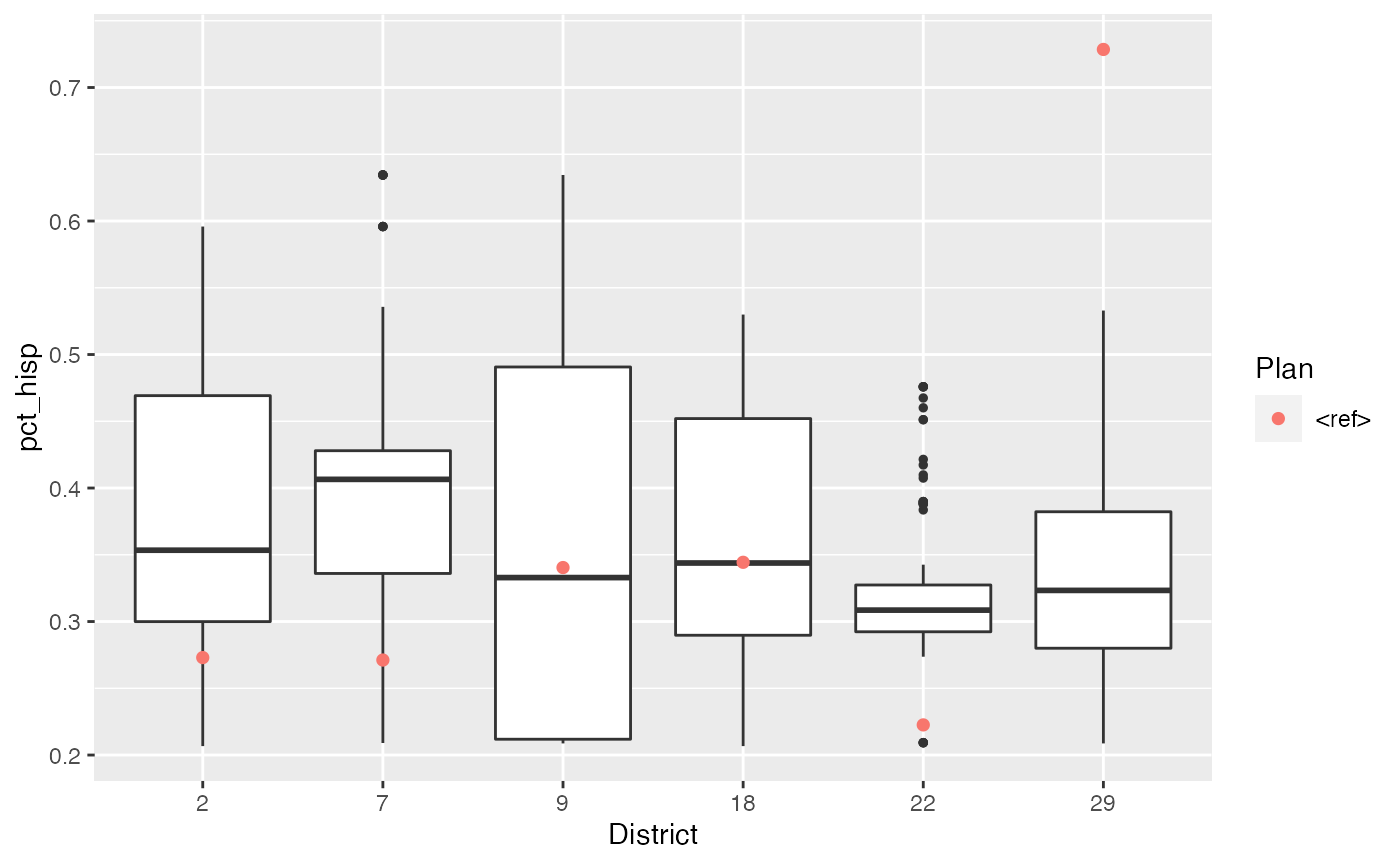
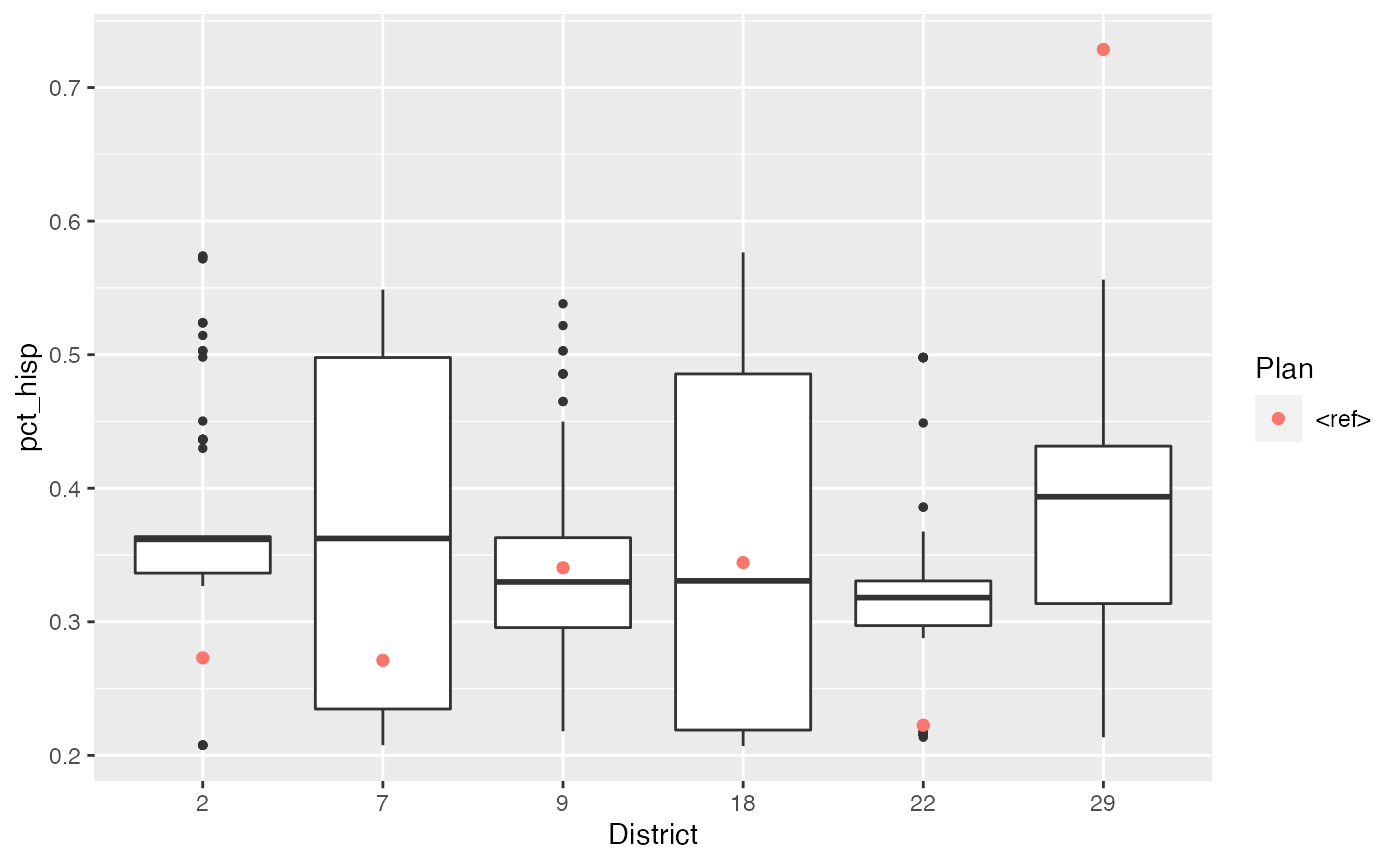
doc fixes

diff --git a/docs/articles/tidy-redist.html b/docs/articles/tidy-redist.html
@@ -134,7 +134,7 @@
 <h1 class="hasAnchor">
 <a href="#specifying-the-redistricting-problem" class="anchor"></a>Specifying the Redistricting Problem</h1>
 <p>The first thing we do is to create a <code>redist_map</code> object, which is essentially a data frame along with an adjacency graph and a little extra metadata about the redistricting problem at hand. It’s important to create this object early on, since data operations like filtering and summarizing will affect the graph structure, number of district, and population constraints.</p>
-<p>Here, the existing district assignment is stored in the <code>cd</code> column. We provide let <code>redist_map</code> know about this by providing the <code>existing_col</code> argument, and we use <code><a href="https://rdrr.io/r/base/Extremes.html">max(cd)</a></code> to count the total number of districts.</p>
+<p>Here, the existing district assignment is stored in the <code>cd</code> column. We provide let <code><a href="../reference/redist_map.html">redist_map()</a></code> know about this by providing the <code>existing_col</code> argument, and we use <code><a href="https://rdrr.io/r/base/Extremes.html">max(cd)</a></code> to count the total number of districts.</p>
 <div class="sourceCode" id="cb2"><pre class="downlit sourceCode r">
 <code class="sourceCode R"><span class="va">tx</span> <span class="op">=</span> <span class="fu"><a href="../reference/redist_map.html">redist_map</a></span><span class="op">(</span><span class="va">texas_shp</span>, pop_tol<span class="op">=</span><span class="fl">0.05</span>, existing_col<span class="op">=</span><span class="va">cd</span><span class="op">)</span>
 <span class="fu"><a href="https://rdrr.io/r/base/print.html">print</a></span><span class="op">(</span><span class="va">tx</span><span class="op">)</span>
@@ -158,7 +158,7 @@
 <span class="co">#&gt; 10 029    4802… (((-217227.7 710079.4, -…    28    54     7     8    39    45</span>
 <span class="co">#&gt; # … with 3,128 more rows, and 6 more variables: bvap &lt;dbl&gt;, hvap &lt;dbl&gt;,</span>
 <span class="co">#&gt; #   wvap &lt;dbl&gt;, dem &lt;int&gt;, gop &lt;int&gt;, graph &lt;list&gt;</span></code></pre></div>
-<p>Our original shapefile stored its geographic information in terms of latitude and longitude. While common, this can cause problems for some of the geographic operations used in the analysis process, so by default <code>redist_map</code> will reproject the shapefile geometry to a new coordinate system. Whether to do this and which coordinate system to use can be controlled using the <code>planarize</code> argument.</p>
+<p>Our original shapefile stored its geographic information in terms of latitude and longitude. While common, this can cause problems for some of the geographic operations used in the analysis process, so by default <code><a href="../reference/redist_map.html">redist_map()</a></code> will reproject the shapefile geometry to a new coordinate system. Whether to do this and which coordinate system to use can be controlled using the <code>planarize</code> argument.</p>
 <div id="subsetting" class="section level2">
 <h2 class="hasAnchor">
 <a href="#subsetting" class="anchor"></a>Subsetting</h2>
@@ -263,22 +263,22 @@
 <div id="simulating-and-analyzing-plans" class="section level1">
 <h1 class="hasAnchor">
 <a href="#simulating-and-analyzing-plans" class="anchor"></a>Simulating and Analyzing Plans</h1>
-<p>After preprocessing the map to focus on the redistricting problem of interest, we are ready to run the redistricting simulation. The recommended simulation function is <code>redist_smc</code>, which uses a Sequential Monte Carlo (SMC) algorithm.<a href="#fn1" class="footnote-ref" id="fnref1"><sup>1</sup></a></p>
+<p>After preprocessing the map to focus on the redistricting problem of interest, we are ready to run the redistricting simulation. The recommended simulation function is <code><a href="../reference/redist_smc.html">redist_smc()</a></code>, which uses a Sequential Monte Carlo (SMC) algorithm.<a href="#fn1" class="footnote-ref" id="fnref1"><sup>1</sup></a></p>
 <div class="sourceCode" id="cb8"><pre class="downlit sourceCode r">
 <code class="sourceCode R"><span class="va">houston_plans</span> <span class="op">=</span> <span class="fu"><a href="../reference/redist_smc.html">redist_smc</a></span><span class="op">(</span><span class="va">houston_cores</span>, <span class="fl">100</span>, counties<span class="op">=</span><span class="va">county</span>, verbose<span class="op">=</span><span class="cn">F</span><span class="op">)</span> <span class="op">%&gt;%</span>
     <span class="fu"><a href="../reference/add_reference.html">add_reference</a></span><span class="op">(</span><span class="va">houston_cores</span><span class="op">$</span><span class="va">cd</span><span class="op">)</span>
 <span class="co">#&gt; Sampling 100 475-unit maps with 6 districts and population between 663313 and 733136.</span>
 <span class="co">#&gt; Ensuring no more than 5 splits of the 6 administrative units.</span>
 <span class="co">#&gt; Making split 1 of 5</span>
-<span class="co">#&gt; Resampling effective sample size: 98.7 (98.7% efficiency).</span>
+<span class="co">#&gt; Resampling effective sample size: 98.6 (98.6% efficiency).</span>
 <span class="co">#&gt; Making split 2 of 5</span>
-<span class="co">#&gt; Resampling effective sample size: 98.4 (98.4% efficiency).</span>
+<span class="co">#&gt; Resampling effective sample size: 98.0 (98.0% efficiency).</span>
 <span class="co">#&gt; Making split 3 of 5</span>
-<span class="co">#&gt; Resampling effective sample size: 97.6 (97.6% efficiency).</span>
+<span class="co">#&gt; Resampling effective sample size: 97.8 (97.8% efficiency).</span>
 <span class="co">#&gt; Making split 4 of 5</span>
-<span class="co">#&gt; Resampling effective sample size: 94.5 (94.5% efficiency).</span>
+<span class="co">#&gt; Resampling effective sample size: 97.1 (97.1% efficiency).</span>
 <span class="co">#&gt; Making split 5 of 5</span>
-<span class="co">#&gt; Resampling effective sample size: 96.6 (96.6% efficiency).</span>
+<span class="co">#&gt; Resampling effective sample size: 96.7 (96.7% efficiency).</span>
 <span class="fu"><a href="https://rdrr.io/r/base/print.html">print</a></span><span class="op">(</span><span class="va">houston_plans</span><span class="op">)</span>
 <span class="co">#&gt; 100 sampled plans and 1 reference plan with 6 districts from a 475-unit map,</span>
 <span class="co">#&gt;   drawn using Sequential Monte Carlo</span>
@@ -294,12 +294,12 @@
 <span class="co">#&gt;  4 &lt;ref&gt;        4 690022</span>
 <span class="co">#&gt;  5 &lt;ref&gt;        5 701696</span>
 <span class="co">#&gt;  6 &lt;ref&gt;        6 695465</span>
-<span class="co">#&gt;  7 1            1 689622</span>
-<span class="co">#&gt;  8 1            2 666238</span>
-<span class="co">#&gt;  9 1            3 687906</span>
-<span class="co">#&gt; 10 1            4 720542</span>
+<span class="co">#&gt;  7 1            1 672300</span>
+<span class="co">#&gt;  8 1            2 681296</span>
+<span class="co">#&gt;  9 1            3 719951</span>
+<span class="co">#&gt; 10 1            4 705623</span>
 <span class="co">#&gt; # … with 596 more rows</span></code></pre></div>
-<p>Since district numbers in simulated plans are by and large random, we often want to renumber the simulated districts to match the district numbers in the original plan, something which is easily accomplished by the function <code>match_numbers</code>:</p>
+<p>Since district numbers in simulated plans are by and large random, we often want to renumber the simulated districts to match the district numbers in the original plan, something which is easily accomplished by the function <code><a href="../reference/match_numbers.html">match_numbers()</a></code>:</p>
 <div class="sourceCode" id="cb9"><pre class="downlit sourceCode r">
 <code class="sourceCode R"><span class="va">houston_plans</span> <span class="op">=</span> <span class="fu"><a href="../reference/match_numbers.html">match_numbers</a></span><span class="op">(</span><span class="va">houston_plans</span>, <span class="va">houston_cores</span><span class="op">$</span><span class="va">cd</span><span class="op">)</span>
 <span class="fu"><a href="https://rdrr.io/r/base/print.html">print</a></span><span class="op">(</span><span class="va">houston_plans</span><span class="op">)</span>
@@ -317,13 +317,13 @@
 <span class="co">#&gt;  4 &lt;ref&gt; 18       690022       1    </span>
 <span class="co">#&gt;  5 &lt;ref&gt; 22       701696       1    </span>
 <span class="co">#&gt;  6 &lt;ref&gt; 29       695465       1    </span>
-<span class="co">#&gt;  7 1     7        689622       0.481</span>
-<span class="co">#&gt;  8 1     22       666238       0.481</span>
-<span class="co">#&gt;  9 1     9        687906       0.481</span>
-<span class="co">#&gt; 10 1     29       720542       0.481</span>
+<span class="co">#&gt;  7 1     22       672300       0.542</span>
+<span class="co">#&gt;  8 1     7        681296       0.542</span>
+<span class="co">#&gt;  9 1     2        719951       0.542</span>
+<span class="co">#&gt; 10 1     29       705623       0.542</span>
 <span class="co">#&gt; # … with 596 more rows</span></code></pre></div>
 <p>This function also creates a new column, which records, for each plan, the fraction of the total population which lives in the same district under the reference plan.</p>
-<p>We can then easily add summary statistics for each district. The <code>distr_compactness</code> and <code>group_frac</code> functions will implicitly reference the simulated plans matrix when called inside <code><a href="https://dplyr.tidyverse.org/reference/mutate.html">mutate()</a></code>.</p>
+<p>We can then easily add summary statistics for each district. The <code><a href="../reference/redist.compactness.html">distr_compactness()</a></code> and <code><a href="../reference/redist.group.percent.html">group_frac()</a></code> functions will implicitly reference the simulated plans matrix when called inside <code><a href="https://dplyr.tidyverse.org/reference/mutate.html">mutate()</a></code>.</p>
 <div class="sourceCode" id="cb10"><pre class="downlit sourceCode r">
 <code class="sourceCode R"><span class="va">houston_plans</span> <span class="op">=</span> <span class="va">houston_plans</span> <span class="op">%&gt;%</span>
     <span class="fu"><a href="https://dplyr.tidyverse.org/reference/mutate.html">mutate</a></span><span class="op">(</span>comp <span class="op">=</span> <span class="fu"><a href="../reference/redist.compactness.html">distr_compactness</a></span><span class="op">(</span><span class="va">houston_cores</span><span class="op">)</span>,
@@ -346,12 +346,12 @@
 <span class="co">#&gt;  4 &lt;ref&gt; 18       690022       1       874    0.344    0.405      0.201   0.799</span>
 <span class="co">#&gt;  5 &lt;ref&gt; 22       701696       1       874    0.223    0.119      0.482   0.518</span>
 <span class="co">#&gt;  6 &lt;ref&gt; 29       695465       1       874    0.729    0.0993     0.147   0.853</span>
-<span class="co">#&gt;  7 1     7        689622       0.481   466    0.320    0.178      0.394   0.606</span>
-<span class="co">#&gt;  8 1     22       666238       0.481   466    0.282    0.217      0.412   0.588</span>
-<span class="co">#&gt;  9 1     9        687906       0.481   466    0.397    0.276      0.210   0.790</span>
-<span class="co">#&gt; 10 1     29       720542       0.481   466    0.415    0.244      0.308   0.692</span>
+<span class="co">#&gt;  7 1     22       672300       0.542   344    0.318    0.192      0.421   0.579</span>
+<span class="co">#&gt;  8 1     7        681296       0.542   344    0.362    0.131      0.402   0.598</span>
+<span class="co">#&gt;  9 1     2        719951       0.542   344    0.337    0.260      0.281   0.719</span>
+<span class="co">#&gt; 10 1     29       705623       0.542   344    0.421    0.269      0.270   0.730</span>
 <span class="co">#&gt; # … with 596 more rows</span></code></pre></div>
-<p>If we wanted, we could sort and number districts according to one of these statistics using the <code>number_by</code> function.</p>
+<p>If we wanted, we could sort and number districts according to one of these statistics using the <code><a href="../reference/number_by.html">number_by()</a></code> function.</p>
 <p>From there, it’s easy to summarize summary statistics by plan.</p>
 <div class="sourceCode" id="cb11"><pre class="downlit sourceCode r">
 <code class="sourceCode R"><span class="va">min_distr</span> <span class="op">=</span> <span class="fu"><a href="https://dplyr.tidyverse.org/reference/group_by.html">group_by</a></span><span class="op">(</span><span class="va">houston_plans</span>, <span class="va">draw</span><span class="op">)</span> <span class="op">%&gt;%</span>
@@ -368,15 +368,15 @@
 <span class="co">#&gt;    draw  n_black n_hisp n_coalition</span>
 <span class="co">#&gt;  * &lt;fct&gt;   &lt;int&gt;  &lt;int&gt;       &lt;int&gt;</span>
 <span class="co">#&gt;  1 &lt;ref&gt;       0      1           4</span>
-<span class="co">#&gt;  2 1           0      1           6</span>
-<span class="co">#&gt;  3 2           0      1           6</span>
+<span class="co">#&gt;  2 1           0      0           6</span>
+<span class="co">#&gt;  3 2           0      0           6</span>
 <span class="co">#&gt;  4 3           0      1           6</span>
-<span class="co">#&gt;  5 4           0      1           6</span>
+<span class="co">#&gt;  5 4           0      0           6</span>
 <span class="co">#&gt;  6 5           0      1           6</span>
-<span class="co">#&gt;  7 6           0      0           6</span>
+<span class="co">#&gt;  7 6           0      1           5</span>
 <span class="co">#&gt;  8 7           0      1           6</span>
 <span class="co">#&gt;  9 8           0      1           6</span>
-<span class="co">#&gt; 10 9           0      1           6</span>
+<span class="co">#&gt; 10 9           0      0           6</span>
 <span class="co">#&gt; # … with 91 more rows</span></code></pre></div>
 <p>And <code>redist</code> provides several useful plotting functions. By default, <code>plot</code> calls <code>hist</code>, which makes a histogram of a quantity of interest along with a reference line for each reference plan.</p>
 <div class="sourceCode" id="cb12"><pre class="downlit sourceCode r">
@@ -407,10 +407,10 @@
 <span class="co">#&gt;  4 &lt;ref&gt; 18       690022       1       874    0.344    0.405      0.201   0.799</span>
 <span class="co">#&gt;  5 &lt;ref&gt; 22       701696       1       874    0.223    0.119      0.482   0.518</span>
 <span class="co">#&gt;  6 &lt;ref&gt; 29       695465       1       874    0.729    0.0993     0.147   0.853</span>
-<span class="co">#&gt;  7 1     7        689622       0.481   466    0.320    0.178      0.394   0.606</span>
-<span class="co">#&gt;  8 1     22       666238       0.481   466    0.282    0.217      0.412   0.588</span>
-<span class="co">#&gt;  9 1     9        687906       0.481   466    0.397    0.276      0.210   0.790</span>
-<span class="co">#&gt; 10 1     29       720542       0.481   466    0.415    0.244      0.308   0.692</span>
+<span class="co">#&gt;  7 1     22       672300       0.542   344    0.318    0.192      0.421   0.579</span>
+<span class="co">#&gt;  8 1     7        681296       0.542   344    0.362    0.131      0.402   0.598</span>
+<span class="co">#&gt;  9 1     2        719951       0.542   344    0.337    0.260      0.281   0.719</span>
+<span class="co">#&gt; 10 1     29       705623       0.542   344    0.421    0.269      0.270   0.730</span>
 <span class="co">#&gt; # … with 596 more rows</span>
 <span class="fu"><a href="https://r-spatial.github.io/sf/reference/plot.html">plot</a></span><span class="op">(</span><span class="va">houston_orig_plans</span>, type<span class="op">=</span><span class="st">"plan"</span>, draw<span class="op">=</span><span class="fl">5</span>, geom<span class="op">=</span><span class="va">houston_area</span><span class="op">)</span></code></pre></div>
 <p><img src="tidy-redist_files/figure-html/unnamed-chunk-12-1.png" width="700"></p>
@@ -429,7 +429,7 @@
 <span class="va">houston_plans</span> <span class="op">=</span> <span class="fu"><a href="../reference/redist_smc.html">redist_smc</a></span><span class="op">(</span><span class="va">houston</span>, <span class="fl">100</span>, counties<span class="op">=</span><span class="va">county</span>, silent<span class="op">=</span><span class="cn">T</span><span class="op">)</span> <span class="op">%&gt;%</span>    
     <span class="fu"><a href="../reference/add_reference.html">add_reference</a></span><span class="op">(</span><span class="va">houston</span><span class="op">$</span><span class="va">cd</span><span class="op">)</span> <span class="op">%&gt;%</span>
     <span class="fu"><a href="../reference/match_numbers.html">match_numbers</a></span><span class="op">(</span><span class="va">houston</span><span class="op">$</span><span class="va">cd</span><span class="op">)</span> <span class="op">%&gt;%</span>
-    <span class="fu"><a href="https://dplyr.tidyverse.org/reference/mutate.html">mutate</a></span><span class="op">(</span>pct_hisp <span class="op">=</span> <span class="fu"><a href="../reference/redist.group.percent.html">group_frac</a></span><span class="op">(</span><span class="va">houston</span>, <span class="va">hisp</span>, <span class="va">pop</span><span class="op">)</span><span class="op">)</span>
+    <span class="fu"><a href="https://dplyr.tidyverse.org/reference/mutate.html">mutate</a></span><span class="op">(</span>pct_hisp <span class="op">=</span> <span class="fu"><a href="../reference/redist.group.percent.html">group_frac</a></span><span class="op">(</span><span class="va">houston</span>, <span class="va">hvap</span>, <span class="va">vap</span><span class="op">)</span><span class="op">)</span>
 
 <span class="fu"><a href="https://r-spatial.github.io/sf/reference/plot.html">plot</a></span><span class="op">(</span><span class="va">houston_plans</span>, <span class="va">pct_hisp</span>, sort<span class="op">=</span><span class="cn">F</span>, type<span class="op">=</span><span class="st">"distr_qtys"</span><span class="op">)</span></code></pre></div>
 <p><img src="tidy-redist_files/figure-html/unnamed-chunk-13-1.png" width="700"></p>

diff --git a/docs/reference/index.html b/docs/reference/index.html
@@ -315,6 +315,18 @@
       </tr><tr>
         
         <td>
+          <p><code><a href="match_numbers.html">match_numbers()</a></code> </p>
+        </td>
+        <td><p>Renumber districts to match an existing plan</p></td>
+      </tr><tr>
+        
+        <td>
+          <p><code><a href="number_by.html">number_by()</a></code> </p>
+        </td>
+        <td><p>Renumber districts to match a quantity of interest</p></td>
+      </tr><tr>
+        
+        <td>
           <p><code><a href="prec_assignment.html">prec_assignment()</a></code> </p>
         </td>
         <td><p>Extract the district assignments for a precint across all simulated plans</p></td>
@@ -552,18 +564,6 @@
           <p><code><a href="fl70.html">fl70</a></code> </p>
         </td>
         <td><p>Florida 70 Precinct File</p></td>
-      </tr><tr>
-        
-        <td>
-          <p><code><a href="match_numbers.html">match_numbers()</a></code> </p>
-        </td>
-        <td><p>Renumber districts to match an existing plan</p></td>
-      </tr><tr>
-        
-        <td>
-          <p><code><a href="number_by.html">number_by()</a></code> </p>
-        </td>
-        <td><p>Renumber districts to match a quantity of interest</p></td>
       </tr><tr>
         
         <td>
